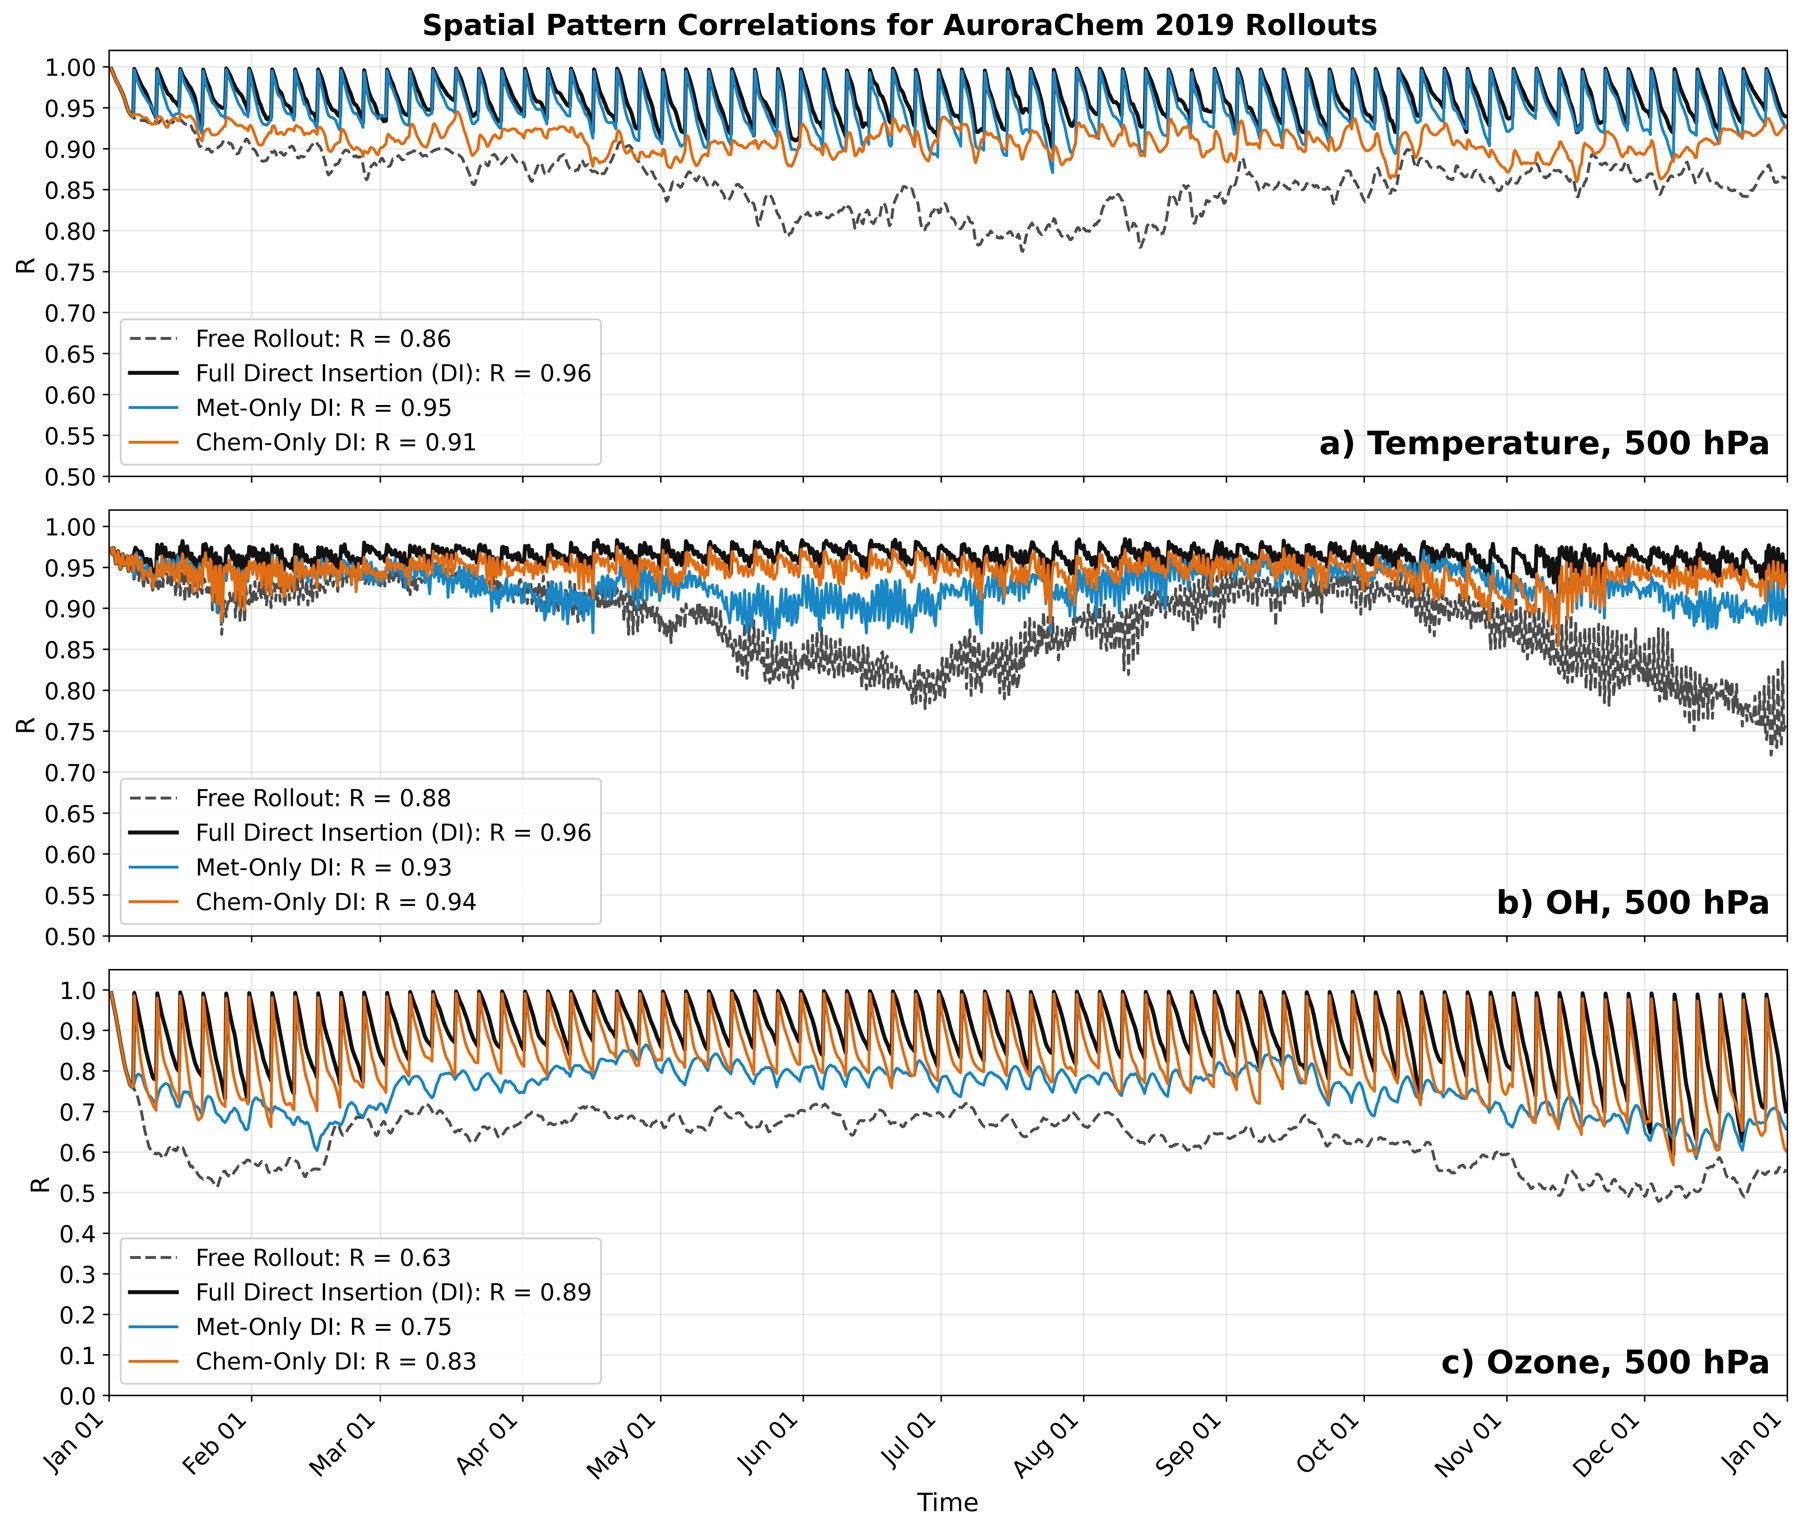
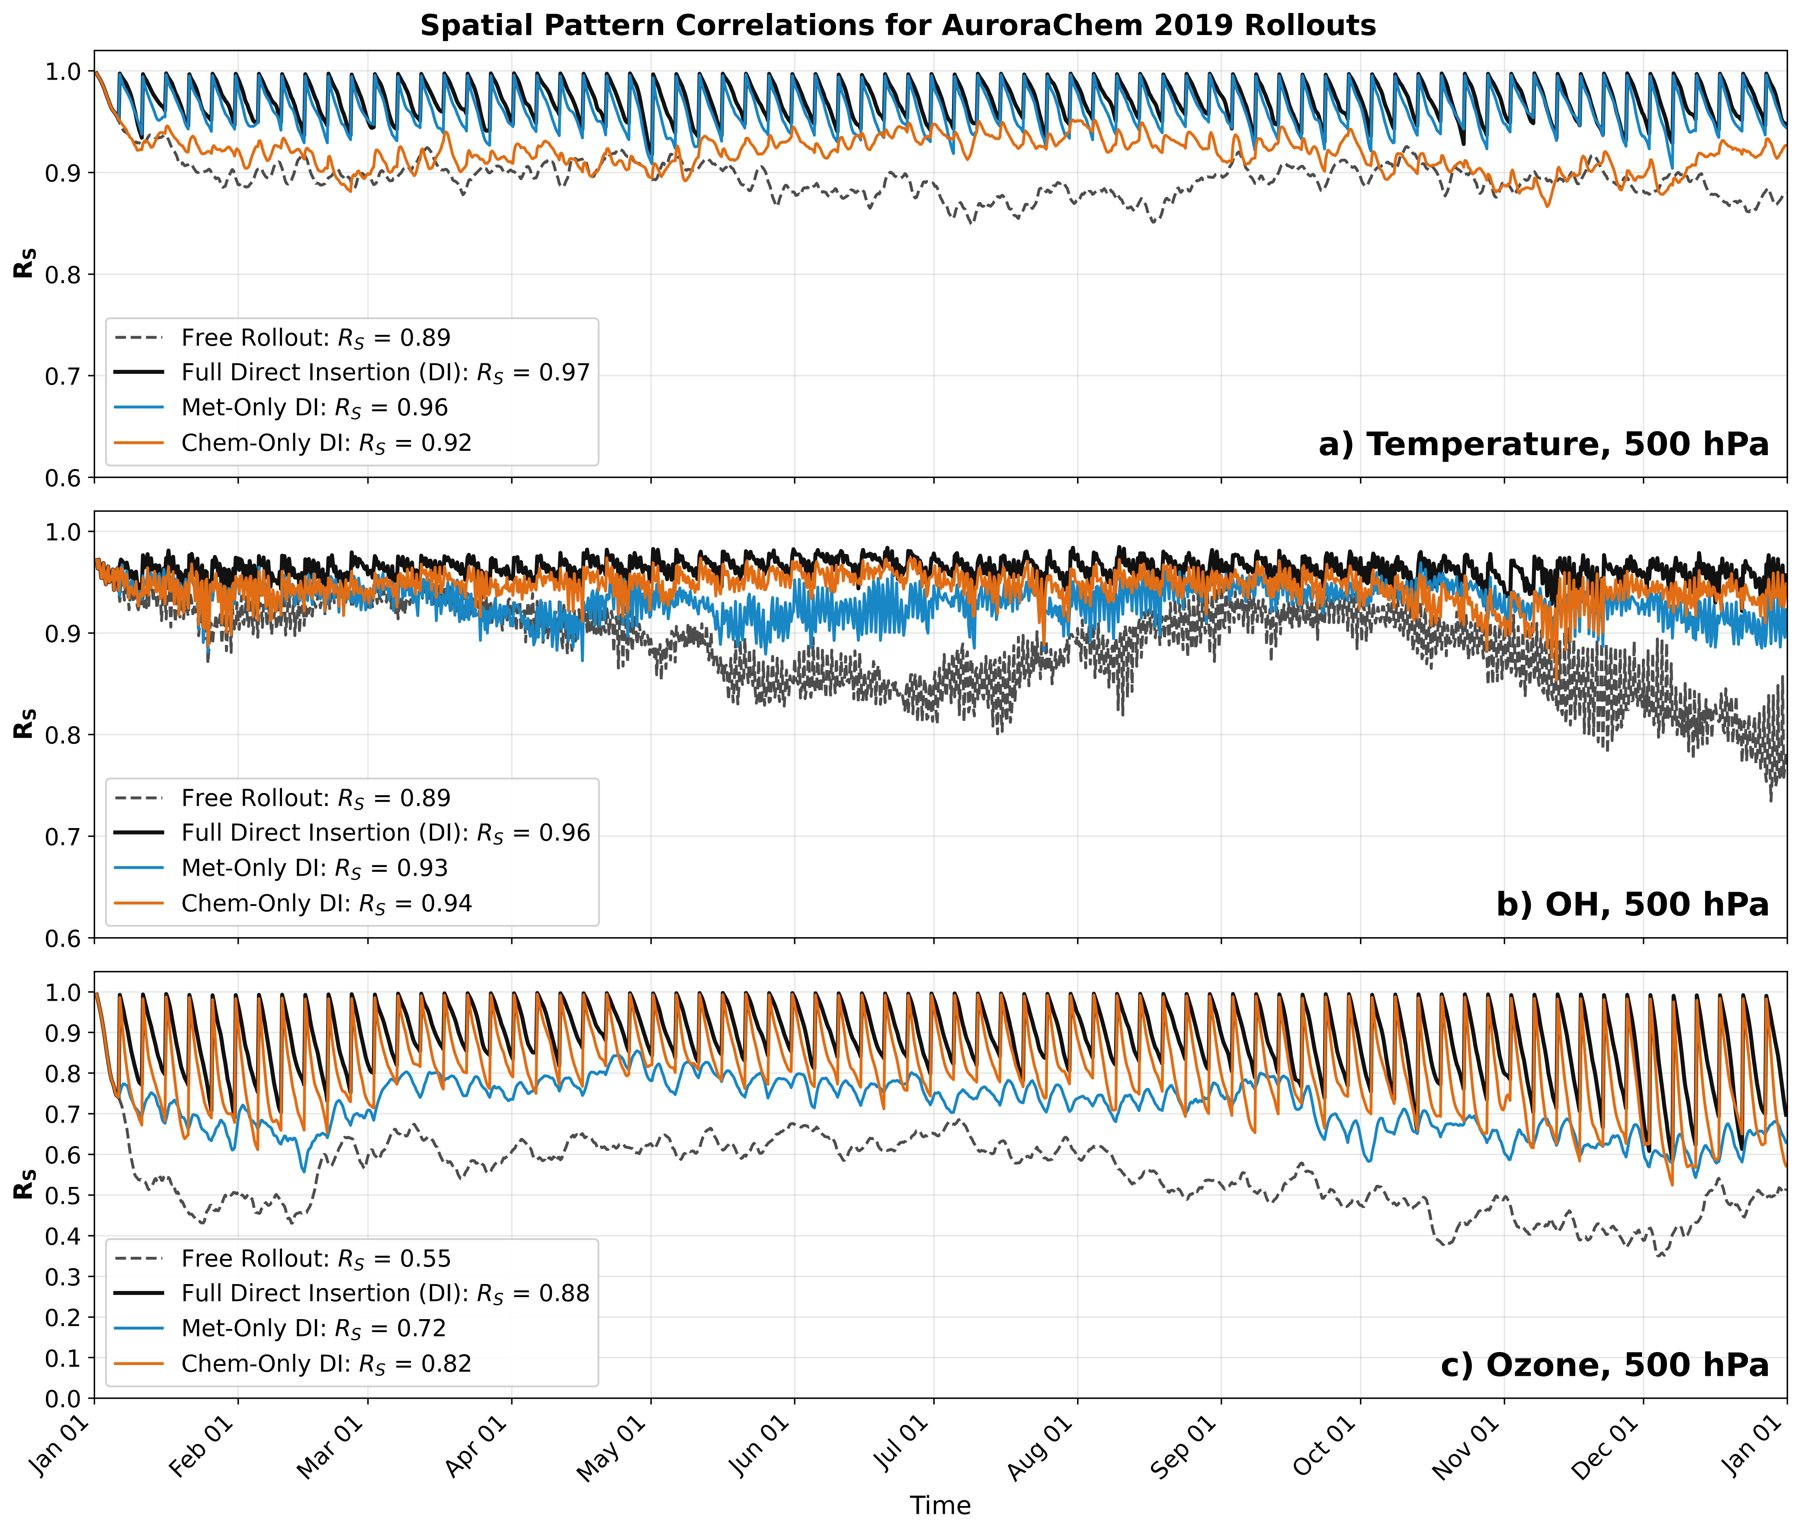
Updating website, A. Turner

diff --git a/quick-start.html b/quick-start.html
@@ -49,56 +49,86 @@
     <main class="content">
       <div class="content-inner">
         <h1>Quick start</h1>
-        <p class="lede">Install AuroraChem, download the pretrained weights, and run a rollout</p>
+        <p class="lede">Install AuroraChem, set up the input data, and run a rollout</p>
 
         <h2>Requirements</h2>
         <ul>
           <li>A CUDA-capable GPU</li>
-          <li>Python [VERSION]</li>
-          <li>About [SIZE] of disk space for the weights and example data</li>
+          <li>Python 3.12 or later</li>
         </ul>
 
         <ol class="steps">
           <li>
             <div class="step-body">
               <h3>Install AuroraChem</h3>
-<pre><code>git clone [REPO URL]
-cd [REPO NAME]
-[INSTALL COMMAND]</code></pre>
+<pre><code>git clone https://github.com/AuroraChem/AuroraChem.git
+cd AuroraChem
+pip install -r requirements.txt</code></pre>
+              <p>The repository includes a modified copy of Microsoft Aurora 1.8.0 in <code>aurora/</code>. Do not install the <code>microsoft-aurora</code> package separately.</p>
             </div>
           </li>
           <li>
             <div class="step-body">
-              <h3>Download the pretrained weights</h3>
-              <p>Available checkpoints are listed on the <a href="model-weights.html">Model weights</a> page.</p>
-<pre><code>[DOWNLOAD COMMAND]</code></pre>
+              <h3>Set up the input data</h3>
+              <p>Set <code>data_dir</code> and <code>output_dir</code> in the configuration files in <code>configs/</code>. The data directory has one folder per data source:</p>
+<pre><code>data_dir/
+├── GEOS_Chem/     chemical fields
+├── era5_interp/   ERA5 meteorology and static fields
+├── emissions/     CAMS monthly emissions
+├── MERRA2/        only if met_type is "merra2"
+└── TROPOMI/       only for TROPOMI NO2 insertion</code></pre>
+              <p>All fields are on the 4&deg;&times;5&deg; grid and 13 pressure levels listed on the <a href="model.html#variables">Model description</a> page.</p>
+              <p>[DATA DOWNLOAD INSTRUCTIONS]</p>
             </div>
           </li>
           <li>
             <div class="step-body">
-              <h3>Prepare the initial conditions</h3>
-              <p>A rollout starts from two atmospheric states 6 hours apart. Each state includes the chemical fields, the meteorological fields on pressure levels, the surface meteorology, monthly emissions, and static fields, all on the 4&deg;&times;5&deg; grid. The full list is on the <a href="model.html#variables">Model description</a> page.</p>
-              <p>[EXAMPLE DATA OR PREPROCESSING SCRIPT]</p>
+              <h3>Get the model weights</h3>
+              <p>Download the pretrained AuroraChem weights from the <a href="model-weights.html">Model weights</a> page and place both files in <code>output_dir/Weights/</code>.</p>
+              <p>To train your own weights instead, run the training script. It downloads the pretrained Aurora weights from Hugging Face on the first run.</p>
+<pre><code>python -m scripts.aurora_train --config configs/aurora_train_config.yml</code></pre>
             </div>
           </li>
           <li>
             <div class="step-body">
               <h3>Run a rollout</h3>
-              <p>Rollouts are set up with a configuration file that sets the start time, length, and output fields.</p>
-<pre><code>[ROLLOUT COMMAND] --config [CONFIG FILE]</code></pre>
+              <p>Run the evaluation script from the repository root. The configuration file sets the start and end times and the type of rollout.</p>
+<pre><code>python -m scripts.aurora_eval --config configs/aurora_eval_config.yml</code></pre>
+              <p>The default configuration runs from 00 UTC on 1 January 2019 to 12 UTC on 31 December 2019.</p>
             </div>
           </li>
           <li>
             <div class="step-body">
-              <h3>Insert observations (optional)</h3>
-              <p>Any subset of fields can be replaced during a rollout. The configuration file sets which fields are replaced and how often.</p>
-<pre><code>[INSERTION EXAMPLE]</code></pre>
+              <h3>Insert fields during a rollout (optional)</h3>
+              <p>The <code>rollout</code> block of the configuration file controls direct insertion. <code>nudge_int</code> is the number of 6&nbsp;h steps between insertions, so 20 inserts every 5 days.</p>
+<pre><code>rollout:
+    rollout_bool: True
+    rollout_type: "nudged_met"
+    nudge_int: 20
+    met_nudge_fields: ["t", "q", "u", "v", "z"]
+    chem_nudge_fields: ["OH", "NO", "NO2", "Cl", "O3", "CO", "C14O"]</code></pre>
+              <div class="table-wrap">
+                <table>
+                  <thead>
+                    <tr><th><code>rollout_type</code></th><th>Fields inserted</th></tr>
+                  </thead>
+                  <tbody>
+                    <tr><td><code>free</code></td><td>None</td></tr>
+                    <tr><td><code>nudged</code></td><td>All meteorological and chemical fields</td></tr>
+                    <tr><td><code>nudged_met</code></td><td>Meteorological fields only</td></tr>
+                    <tr><td><code>nudged_chem</code></td><td>Chemical fields only</td></tr>
+                    <tr><td><code>nudged_partial</code></td><td>The fields listed in <code>met_nudge_fields</code> and <code>chem_nudge_fields</code></td></tr>
+                    <tr><td><code>nudged_tropomi_no2</code></td><td>NO<sub>2</sub> profiles in grid cells with valid TROPOMI pixels</td></tr>
+                    <tr><td><code>nudged_tropomi_no2_ak</code></td><td>NO<sub>2</sub> columns computed with a TROPOMI averaging kernel</td></tr>
+                  </tbody>
+                </table>
+              </div>
             </div>
           </li>
         </ol>
 
         <h2>Output</h2>
-        <p>[OUTPUT FORMAT AND FILE STRUCTURE]</p>
+        <p>Rollouts are written as netCDF files to <code>output_dir</code>. The file name contains the run name, the start and end dates, and the rollout type.</p>
 
         <div class="callout">
           For technical support, please open an issue on <a href="https://github.com/AuroraChem/AuroraChem">GitHub</a>.

diff --git a/model.html b/model.html
@@ -90,13 +90,14 @@
 
             <section id="training-data">
               <h2>Training data</h2>
-              <p>The chemical fields come from a GEOS-Chem v14.5.3 simulation performed for the <a href="https://fetch4.github.io/">FETCH4</a> project, which adds <sup>14</sup>CO to the chemical mechanism. The meteorological fields come from ERA5. Emissions come from the CAMS global anthropogenic inventory. All fields are regridded to the AuroraChem grid. The model is trained on 2018 and evaluated on 2019.</p>
+              <p>The chemical fields come from a GEOS-Chem v14.5.3 simulation performed for the <a href="https://fetch4.github.io/">FETCH4</a> project, which adds <sup>14</sup>CO to the chemical mechanism. GEOS-Chem is driven by MERRA-2 meteorology. The meteorological fields come from ERA5. Emissions are 2019 monthly mean anthropogenic emissions from the CAMS global inventory, used for both the training and test years. The model is trained on 2018 and evaluated on 2019.</p>
+              <p>ERA5 fields are bilinearly interpolated from 0.25&deg;&times;0.25&deg; to 4&deg;&times;5&deg;. GEOS-Chem fields are conservatively regridded on each model level, then linearly interpolated from the hybrid sigma-pressure levels to the 13 pressure levels. Meteorological fields are normalized by their mean and standard deviation, and chemical fields by half of their time-averaged maximum.</p>
             </section>
 
             <section id="architecture">
               <h2>Architecture</h2>
               <figure>
-                <img src="images/fig1-architecture.jpg" alt="Schematic of the AuroraChem encoder, backbone, and decoder" width="1800" height="939" loading="lazy">
+                <img src="images/fig1-architecture.png" alt="Schematic of the AuroraChem encoder, backbone, and decoder" width="1800" height="939" loading="lazy">
                 <figcaption>The encoder maps the fields at t&nbsp;&minus;&nbsp;6&nbsp;h and t to a latent state with four vertical levels. The backbone advances the latent state by 6&nbsp;h. The decoder maps it back to the output fields at t&nbsp;+&nbsp;6&nbsp;h.</figcaption>
               </figure>
               <p>AuroraChem keeps the encoder, Swin Transformer U-Net backbone, and decoder of the base Aurora model, with three changes. The patch size is 1&times;1 instead of 4&times;4, which is affordable at 4&deg;&times;5&deg;. Each pressure level has its own patch embedding, because chemical species vary more with altitude than meteorological fields do. The chemical fields have their own decoder, and the meteorological fields use the pretrained decoder.</p>
@@ -109,12 +110,12 @@
 
             <section id="evaluation">
               <h2>Evaluation</h2>
-              <p>AuroraChem is evaluated against GEOS-Chem for chemistry and ERA5 for meteorology using the spatial correlation R<sub>s</sub> at each pressure level. After 3 days, R<sub>s</sub> at 500&nbsp;hPa is [0.91&ndash;0.97] for temperature, OH, O<sub>3</sub>, and <sup>14</sup>CO. After six months, it is 0.85 for OH, 0.60 for O<sub>3</sub>, and 0.52 for <sup>14</sup>CO.</p>
+              <p>AuroraChem is evaluated against GEOS-Chem for chemistry and ERA5 for meteorology using the spatial correlation R<sub>s</sub> at each pressure level. After 3 days, R<sub>s</sub> at 500&nbsp;hPa is 0.97 for temperature, 0.96 for OH, 0.91 for O<sub>3</sub>, and 0.96 for <sup>14</sup>CO. After six months, it is 0.90 for temperature, 0.86 for OH, 0.59 for O<sub>3</sub>, and 0.61 for <sup>14</sup>CO.</p>
               <figure>
                 <img src="images/fig2-forecast.jpg" alt="Maps of true and AuroraChem 3-day forecasts of temperature, OH, ozone, and 14CO at 500 hPa" width="1800" height="1743" loading="lazy">
                 <figcaption>3-day forecast at 500&nbsp;hPa, valid 12&nbsp;UTC on 4 January 2019. Left: ERA5 and GEOS-Chem. Right: AuroraChem.</figcaption>
               </figure>
-              <p>Replacing fields with the true values every 5 days keeps the rollout close to the truth, including fields that are never replaced. Replacing only the meteorological fields keeps 500&nbsp;hPa OH at an annual mean R<sub>s</sub> of 0.93, compared with 0.88 without replacement.</p>
+              <p>Replacing fields with the true values every 5 days keeps the rollout close to the truth, including fields that are never replaced. Replacing only the meteorological fields keeps 500&nbsp;hPa OH at an annual mean R<sub>s</sub> of 0.93, compared with 0.89 without replacement. Replacing only the chemical fields keeps 500&nbsp;hPa temperature at 0.92, compared with 0.89. Inserting only NO<sub>2</sub> columns at TROPOMI pixels keeps 500&nbsp;hPa OH at 0.93.</p>
               <figure>
                 <img src="images/fig4-timeseries.jpg" alt="Time series of spatial correlation for temperature, OH, and ozone in four rollout configurations" width="1800" height="1529" loading="lazy">
                 <figcaption>R<sub>s</sub> at 500&nbsp;hPa in 2019 for a free rollout and for rollouts where all fields, only meteorological fields, or only chemical fields are replaced every 5 days.</figcaption>
@@ -125,7 +126,7 @@
               <h2>Known limitations</h2>
               <ul>
                 <li>Free rollouts have a weak seasonal cycle. A rollout started in January stays close to Northern Hemisphere winter.</li>
-                <li>O<sub>3</sub>, CO, and <sup>14</sup>CO drift after a few months of free running, with artifacts in the tropics.</li>
+                <li>O<sub>3</sub> and <sup>14</sup>CO drift after a few months of free running, with artifacts over the Amazon, the Congo basin, and the Maritime Continent.</li>
                 <li>The model receives no biomass burning or biogenic emissions.</li>
                 <li>The same emissions were used in the training and test years, so the response to emission changes is untested.</li>
               </ul>

diff --git a/model-weights.html b/model-weights.html
@@ -55,26 +55,27 @@
         <div class="table-wrap">
           <table>
             <thead>
-              <tr><th>Version</th><th>Training data</th><th>Grid</th><th>Size</th><th>Download</th></tr>
+              <tr><th>Version</th><th>Training data</th><th>Grid</th><th>Download</th></tr>
             </thead>
             <tbody>
               <tr>
                 <td>AuroraChem v1</td>
                 <td>GEOS-Chem (FETCH4) and ERA5, 2018</td>
                 <td>4&deg;&times;5&deg;, 13 pressure levels</td>
-                <td>[SIZE]</td>
-                <td><a href="[WEIGHTS URL]">[FILE NAME]</a></td>
+                <td><a href="[ZENODO URL]">[shared at publication]</a></td>
               </tr>
             </tbody>
           </table>
         </div>
-        <p>AuroraChem v1 is the model described in Kim et al. (submitted).</p>
+        <p>AuroraChem v1 is the model described in Kim et al. (submitted). Each checkpoint has two files: the model weights (<code>&lt;run_name&gt;_best_weights.pth</code>) and the normalization statistics used during training (<code>&lt;run_name&gt;_norm_stats.npz</code>).</p>
 
         <h2>Loading a checkpoint</h2>
-<pre><code>[LOADING EXAMPLE]</code></pre>
+        <p>Place both files in <code>output_dir/Weights/</code> and set <code>run_name</code> in <code>configs/aurora_eval_config.yml</code> to match the file names. The evaluation script loads the weights automatically:</p>
+<pre><code>python -m scripts.aurora_eval --config configs/aurora_eval_config.yml</code></pre>
+        <p>See the <a href="quick-start.html">Quick start</a> for the full setup.</p>
 
         <h2>License</h2>
-        <p>The AuroraChem weights are released under [LICENSE]. The base Aurora weights are released by Microsoft under their own <a href="https://github.com/microsoft/aurora">license</a>.</p>
+        <p>The AuroraChem code is released under the <a href="https://github.com/AuroraChem/AuroraChem/blob/main/LICENSE">MIT License</a>. The modified Aurora code in <code>aurora/</code> is MIT-licensed by Microsoft. [WEIGHTS LICENSE]</p>
       </div>
     </main>
   </div>

diff --git a/index.html b/index.html
@@ -68,7 +68,7 @@
         <p>AuroraChem is a fine-tuned version of Microsoft's <a href="https://github.com/microsoft/aurora">Aurora</a> atmospheric foundation model. It adds the seven chemical species needed to constrain the oxidative capacity of the troposphere. Chemistry and meteorology share one model state, so an observation of either one can update the other.</p>
         <p>AuroraChem was trained on GEOS-Chem chemical fields and ERA5 meteorology for 2018 and evaluated on 2019. It takes the atmospheric state at two times, 6 hours apart, and predicts the state 6 hours later. Repeating this step produces rollouts that remain stable for one year.</p>
         <figure>
-          <img src="images/fig1-architecture.jpg" alt="Schematic of the AuroraChem encoder, backbone, and decoder" width="1800" height="939" loading="lazy">
+          <img src="images/fig1-architecture.png" alt="Schematic of the AuroraChem encoder, backbone, and decoder" width="1800" height="939" loading="lazy">
           <figcaption>AuroraChem architecture. The encoder maps the fields at t&nbsp;&minus;&nbsp;6&nbsp;h and t to a latent state, the backbone advances it 6&nbsp;h, and the decoder maps it back to the output fields. Solid arrows are new weights trained from scratch. Dotted arrows are pretrained Aurora weights updated at a low learning rate.</figcaption>
         </figure>
         <p>AuroraChem is intended as the forward model for joint chemical and meteorological data assimilation. Users can run free rollouts or replace any subset of fields with observations during a rollout. In the paper, inserting only meteorological fields recovers the seasonal cycle of OH, and inserting only TROPOMI-like NO<sub>2</sub> columns constrains OH about as well. The model is differentiable, so it also provides gradients for variational methods without an adjoint.</p>

diff --git a/publications.html b/publications.html
@@ -59,6 +59,7 @@
             <p class="muted" style="margin: 0 0 12px;">Kim, E. J., Mei, E. J., Ivatt, P. D., Murray, L. T., and Turner, A. J.</p>
             <div class="button-row" style="margin: 0;">
               <a class="button button-secondary" href="[PREPRINT URL]">Preprint</a>
+              <a class="button button-secondary" href="https://github.com/AuroraChem/AuroraChem">Code</a>
             </div>
           </div>
         </div>
